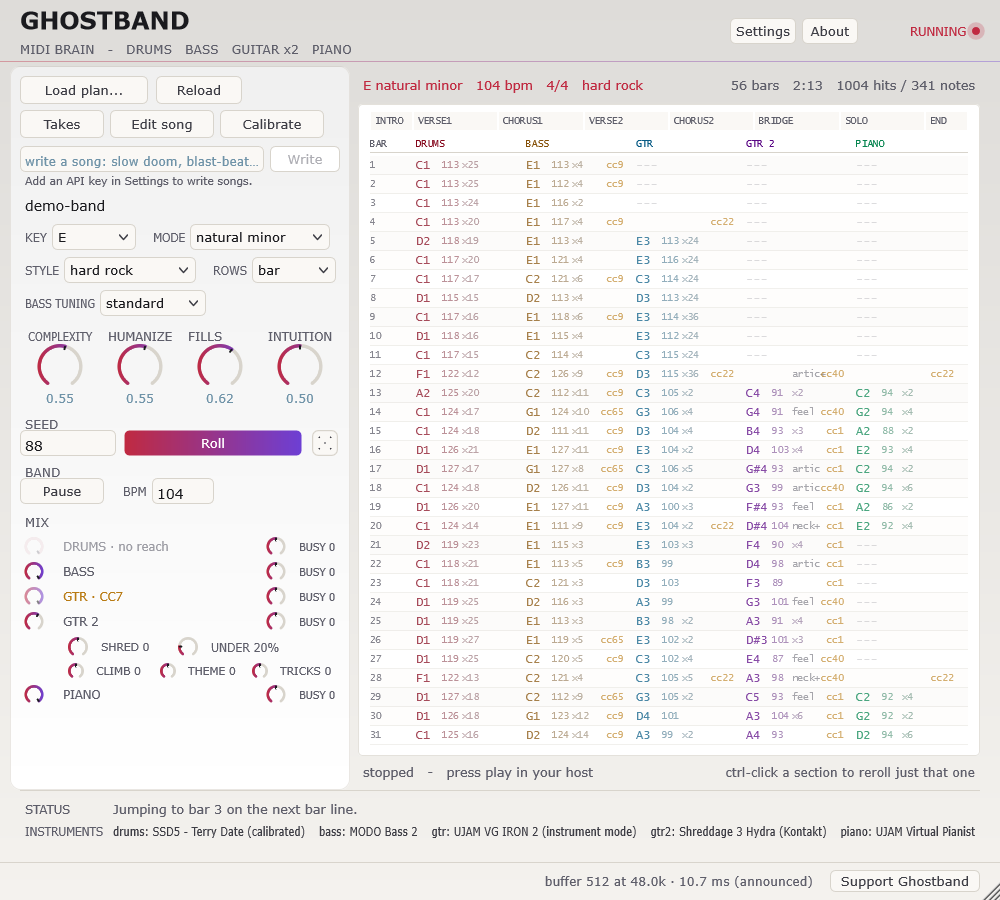
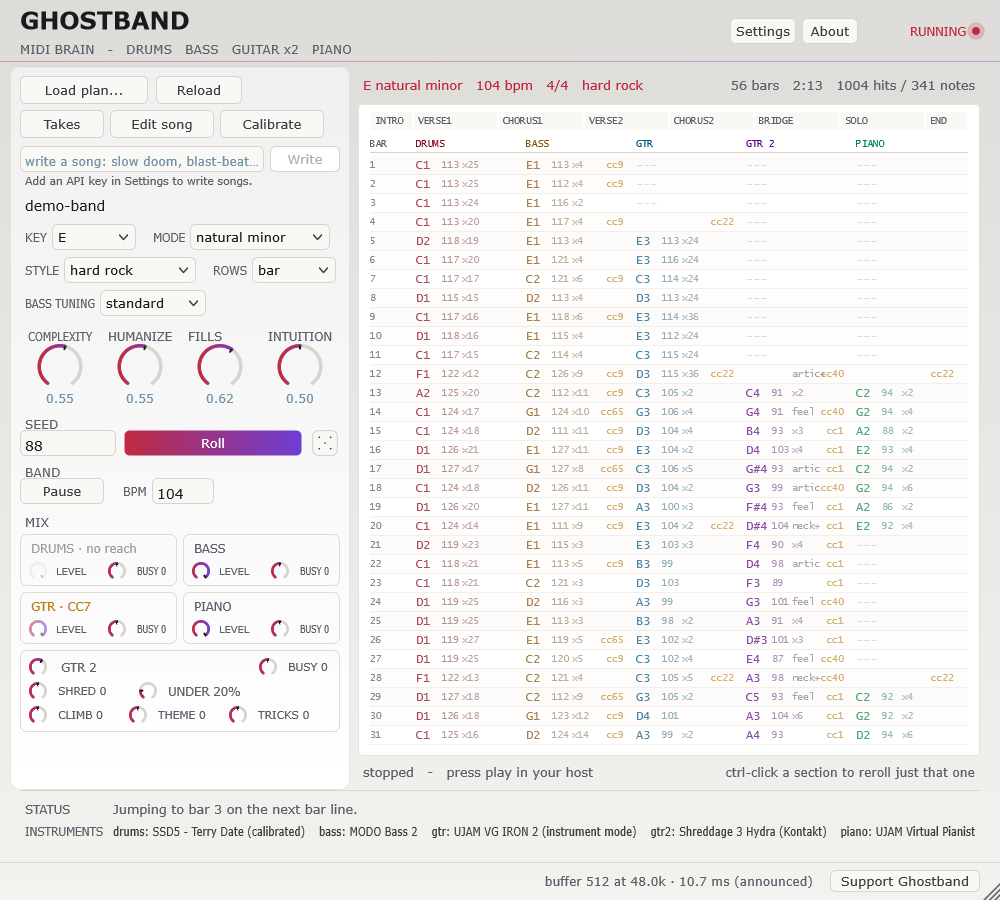
Mix: each instrument in its own box (layout B), window 850 tall; screenshots regenerated
Small boxes keep the greyed reason on its own line (never hide the reason).

Changed region(s): [[0.0, 0.5911, 0.341, 0.8089]]

diff --git a/plugin/PluginEditor.cpp b/plugin/PluginEditor.cpp
@@ -2857,7 +2857,7 @@ GhostbandEditor::GhostbandEditor (GhostbandProcessor& p)
     aboutButton.onClick    = [this] { screen = Screen::About;    updateModeVisibility(); };
     backButton.onClick     = [this] { screen = Screen::Song;     updateModeVisibility(); };
 
-    resetSizeButton.onClick = [this] { setSize (1180, 820); };
+    resetSizeButton.onClick = [this] { setSize (1180, 850); };
 
     styleCombo (themeBox);
     addChildComponent (themeBox);
@@ -3148,13 +3148,13 @@ GhostbandEditor::GhostbandEditor (GhostbandProcessor& p)
     // which is about 900. Settings wants a 460 column of channels beside a 496
     // column of the learn form, which is 1020 - and a minimum that fits five
     // screens and breaks the sixth is not a minimum.
-    setResizeLimits (1020, 820, 2400, 2200);
+    setResizeLimits (1020, 850, 2400, 2200);
 
     // Restore the remembered size, then start recording changes to it. The
     // order matters: recording before this point captures the zero-sized
     // editor and loses what was remembered.
     setSize (juce::jmax (1020, processor.editorWidth.load()),
-             juce::jmax (820, processor.editorHeight.load()));
+             juce::jmax (850, processor.editorHeight.load()));
     sizeInitialised = true;
 
     // ---- tooltips ----
@@ -6162,6 +6162,22 @@ void GhostbandEditor::paint (juce::Graphics& g)
     if (screen == Screen::Song && ! trackerEditStrip.isEmpty())
         ghost::drawSurface (g, trackerEditStrip.toFloat(), 8.0f);
 
+    // Each instrument's box in the mix (2026-10-03).
+    if (screen == Screen::Song)
+    {
+        g.setColour (ghost::line.brighter (0.25f));
+        for (const auto& b : mixBoxes)
+            if (! b.isEmpty())
+                g.drawRoundedRectangle (b.toFloat().reduced (0.5f), 6.0f, 1.0f);
+
+        // What the left knob of a small box is, beside it.
+        g.setColour (ghost::dim);
+        g.setFont (juce::FontOptions (12.0f));
+        for (const auto& c : levelCaptions)
+            if (! c.isEmpty())
+                g.drawText ("LEVEL", c, juce::Justification::centredLeft, false);
+    }
+
     // The footer's own separator. Without it the two lines down there read as
     // more page rather than as a distinct block - which was the complaint: no
     // obvious separation other than the colour.
@@ -6948,9 +6964,25 @@ void GhostbandEditor::layOutSongScreen (juce::Rectangle<int> r)
     // side each one gets a whole line, and "PIANO - not in song" fits as
     // written.
     mixLabel.setBounds (rail.removeFromTop (16));
-    // (The gap above was 16 and each row 28 until the solo knobs' line under
-    // GTR 2 needed 22 pixels at the default window size - 2026-10-03.)
     rail.removeFromTop (4);
+
+    // EACH INSTRUMENT IN ITS OWN BOX (2026-10-03, the owner: "the spacing is
+    // too crowded... put each instrument and its accompanying adjustment dials
+    // inside a box-like outline". Layout B of three sketches): drums and bass,
+    // guitar and piano two to a row, one line each; guitar 2 across the whole
+    // rail, because it carries seven controls. The outlines are painted in
+    // paint(), behind the knobs.
+    {
+        const int gap = 6, smallH = 52, bigH = 82;
+        auto top = rail.removeFromTop (smallH);
+        rail.removeFromTop (gap);
+        auto mid = rail.removeFromTop (smallH);
+        rail.removeFromTop (gap);
+        const int half = (top.getWidth() - gap) / 2;
+        mixBoxes[0] = top.removeFromLeft (half);  top.removeFromLeft (gap);  mixBoxes[1] = top;   // drums, bass
+        mixBoxes[2] = mid.removeFromLeft (half);  mid.removeFromLeft (gap);  mixBoxes[4] = mid;   // guitar, piano
+        mixBoxes[3] = rail.removeFromTop (bigH);                                                   // guitar 2
+    }
 
     juce::Slider* levelSliders[5] = { &levelDrums, &levelBass, &levelGuitar,
                                       &levelGuitar2, &levelPiano };
@@ -7022,6 +7054,10 @@ void GhostbandEditor::layOutSongScreen (juce::Rectangle<int> r)
         levelSliders[i]->setEnabled (reachable);
         levelSliders[i]->setAlpha (alpha);
         levelLabels[i]->setColour (juce::Label::textColourId, colour);
+        // The name and, when there is one, the reason it is greyed - "never
+        // hide a control; grey it out with the reason". The small boxes give it
+        // a line of its own; guitar 2's full-width box has it beside the knob.
+        const bool wide = (i == 3);
         levelLabels[i]->setText (juce::String (kLevelNames[i]) + suffix,
                                  juce::dontSendNotification);
 
@@ -7044,7 +7080,10 @@ void GhostbandEditor::layOutSongScreen (juce::Rectangle<int> r)
                         : juce::String (kLevelNames[i])
                               + " level, sent to the instrument's own volume control.");
 
-        auto row = rail.removeFromTop (25);
+        auto inner = mixBoxes[static_cast<size_t> (i)].reduced (6, wide ? 5 : 3);
+        if (! wide)
+            levelLabels[i]->setBounds (inner.removeFromTop (22));
+        auto row = inner.removeFromTop (24);
 
         // BUSY, at the right of every row. Greyed with the reason, never hidden:
         // a part not in the song, or one whose instrument plays its own phrases.
@@ -7063,9 +7102,9 @@ void GhostbandEditor::layOutSongScreen (juce::Rectangle<int> r)
                          : "BUSY: how much " + juce::String (kLevelNames[i]).toLowerCase()
                            + " plays, on top of COMPLEXITY. Middle is the song exactly as it is; up is busier, "
                              "down is sparer. Double-click for the middle.");
-            auto busyArea = row.removeFromRight (78);
-            busyKnob[i].setBounds (busyArea.removeFromLeft (28).reduced (1));
-            busyArea.removeFromLeft (4);
+            auto busyArea = row.removeFromRight (wide ? 78 : 66);
+            busyKnob[i].setBounds (busyArea.removeFromLeft (24).reduced (1));
+            busyArea.removeFromLeft (3);
             busyLabel[i].setBounds (busyArea);
         }
 
@@ -7084,10 +7123,8 @@ void GhostbandEditor::layOutSongScreen (juce::Rectangle<int> r)
                             "Double-click for the default."
                           : "Nothing can set guitar 2's level (see the GTR 2 knob), so nothing can "
                             "lower it for fills either.");
-            // A second line under GTR 2 for its two lead controls - there is
-            // no room for three knobs and a name on one.
-            auto line2 = rail.removeFromTop (26);
-            line2.removeFromLeft (44);
+            // A second line in GTR 2's box for its two lead controls.
+            auto line2 = inner.removeFromTop (24);
             auto shredArea = line2.removeFromLeft (110);
             shredKnob.setVisible (screen == Screen::Song);
             shredLabel.setVisible (screen == Screen::Song);
@@ -7098,20 +7135,19 @@ void GhostbandEditor::layOutSongScreen (juce::Rectangle<int> r)
                                            "Middle follows COMPLEXITY and INTUITION as it always has. "
                                            "Double-click for the middle."
                                          : "Guitar 2 is not in this song.");
-            shredKnob.setBounds (shredArea.removeFromLeft (28).reduced (1));
-            shredArea.removeFromLeft (4);
+            shredKnob.setBounds (shredArea.removeFromLeft (24).reduced (1));
+            shredArea.removeFromLeft (3);
             shredLabel.setBounds (shredArea);
 
             auto fillsArea = line2.removeFromLeft (110);
-            levelGuitar2Fills.setBounds (fillsArea.removeFromLeft (28).reduced (1));
-            fillsArea.removeFromLeft (4);
+            levelGuitar2Fills.setBounds (fillsArea.removeFromLeft (24).reduced (1));
+            fillsArea.removeFromLeft (3);
             levelGuitar2FillsLabel.setBounds (fillsArea);
 
             // THE SOLO KNOBS, a third line (2026-10-03, layout A): what the
             // solos do, beside the other lead controls. Greyed with the reason
             // when guitar 2 is not in the song, never hidden.
-            auto line3 = rail.removeFromTop (22);
-            line3.removeFromLeft (44);
+            auto line3 = inner.removeFromTop (24);
             struct SoloKnob { juce::Slider& k; juce::Label& l; const char* tip; };
             const SoloKnob soloKnobs[] = {
                 { climbKnob,  climbLabel,  "CLIMB: how far up the neck guitar 2's solos rise to their peak - down stays "
@@ -7124,7 +7160,7 @@ void GhostbandEditor::layOutSongScreen (juce::Rectangle<int> r)
                                            "solos as approved. Double-click for the middle." } };
             for (const SoloKnob& sk : soloKnobs)
             {
-                auto area = line3.removeFromLeft (92);
+                auto area = line3.removeFromLeft (100);
                 sk.k.setVisible (screen == Screen::Song);
                 sk.l.setVisible (screen == Screen::Song);
                 sk.k.setEnabled (inSong);
@@ -7137,9 +7173,12 @@ void GhostbandEditor::layOutSongScreen (juce::Rectangle<int> r)
             }
         }
 
-        levelSliders[i]->setBounds (row.removeFromLeft (28).reduced (1));
-        row.removeFromLeft (10);
-        levelLabels[i]->setBounds (row);
+        levelSliders[i]->setBounds (row.removeFromLeft (24).reduced (1));
+        row.removeFromLeft (6);
+        if (wide)
+            levelLabels[i]->setBounds (row);
+        else
+            levelCaptions[i] = row.removeFromLeft (44);   // "LEVEL", painted
     }
 
     // ---- the grid, and the two lines that frame it ----

diff --git a/test/PluginHarness.cpp b/test/PluginHarness.cpp
@@ -87,7 +87,7 @@ double contrastRatio (juce::Colour a, juce::Colour b)
 // Settings is what sets it: a 460 column of channels beside a 496 column of the
 // learn form. The song screen alone would be happy at 900.
 constexpr int kMinW = 1020;
-constexpr int kMinH = 820;
+constexpr int kMinH = 850;
 
 // Same idea as the local `describe` lambdas, at file scope so checks outside
 // those blocks can name a component too.
@@ -656,7 +656,7 @@ static void perfReport (const juce::String& planPath, int seconds)
 
     t0 = now();
     auto* ed = proc->createEditorIfNeeded();
-    ed->setSize (1180, 820);
+    ed->setSize (1180, 850);
     const double tEditor = now() - t0;
 
     t0 = now();
@@ -9091,11 +9091,11 @@ int main (int argc, char** argv)
                 // Sized per screen rather than uniformly: a settings page with a
                 // scrolling control list needs the height, and the song screen
                 // at that height is mostly empty floor.
-                shots.push_back ({ 0, 1180,  820, "-docs" });   // song
+                shots.push_back ({ 0, 1180,  850, "-docs" });   // song
                 shots.push_back ({ 1, 1180,  980, "-docs" });   // calibrate
                 shots.push_back ({ 2, 1180,  980, "-docs" });   // edit
                 shots.push_back ({ 3, 1180,  900, "-docs" });   // settings
-                shots.push_back ({ 4, 1180,  820, "-docs" });   // about
+                shots.push_back ({ 4, 1180,  850, "-docs" });   // about
                 shots.push_back ({ 5, 1180,  900, "-docs" });   // takes
 
                 // About at the size it is actually used at. It is the one
@@ -9109,10 +9109,10 @@ int main (int argc, char** argv)
                 // reasoned about. A 150 ms cubic ease-out is already down to
                 // 12% opacity at its halfway point, which is a flicker rather
                 // than a transition - and that is not visible in any still.
-                shots.push_back ({ 0, 1180, 820, "-glow" });
+                shots.push_back ({ 0, 1180, 850, "-glow" });
 
                 for (int f = 0; f < 4; ++f)
-                    shots.push_back ({ 0, 1180, 820, f == 0 ? "-fade-100"
+                    shots.push_back ({ 0, 1180, 850, f == 0 ? "-fade-100"
                                                    : f == 1 ? "-fade-70"
                                                    : f == 2 ? "-fade-40" : "-fade-15" });
 
@@ -9122,7 +9122,7 @@ int main (int argc, char** argv)
                 // The click happens in the render loop below, not here: every
                 // shot switches screens, and leaving one closes the strip.
                 if (gbEd != nullptr && proc.getBarTicks() > 0)
-                    shots.push_back ({ 0, 1180, 820, "-editing" });
+                    shots.push_back ({ 0, 1180, 850, "-editing" });
 
                 for (const Shot& shot : shots)
                 {

diff --git a/plugin/PluginProcessor.cpp b/plugin/PluginProcessor.cpp
@@ -4746,7 +4746,7 @@ void GhostbandProcessor::setStateInformation (const void* data, int sizeInBytes)
     // header, so a session saved before this opens at the new size rather than
     // at a cramped old one.
     editorWidth.store  (juce::jlimit (700, 2400, xml->getIntAttribute ("editorW", 800)));
-    editorHeight.store (juce::jlimit (820, 2200, xml->getIntAttribute ("editorH", 960)));
+    editorHeight.store (juce::jlimit (850, 2200, xml->getIntAttribute ("editorH", 960)));
     usePlanTempo.store (xml->getBoolAttribute ("planTempo", true));
     trackerZoom.store (juce::jlimit (0, numTrackerZooms - 1,
                                      xml->getIntAttribute ("trackerZoom", 0)));

diff --git a/plugin/PluginEditor.h b/plugin/PluginEditor.h
@@ -1001,6 +1001,8 @@ private:
     // is what made the window read as a form rather than as an instrument. A
     // ground with panels ON it is most of what separates the two.
     juce::Rectangle<int> controlsPanel;
+    juce::Rectangle<int> mixBoxes[5];   // drums, bass, guitar, guitar 2, piano - outlined in paint()
+    juce::Rectangle<int> levelCaptions[5];   // "LEVEL" beside the small boxes' knobs, painted
 
     // The quick edit strip's own surface, painted behind it so it reads as one
     // thing attached to the grid rather than four loose controls.

diff --git a/plugin/PluginProcessor.h b/plugin/PluginProcessor.h
@@ -613,7 +613,7 @@ public:
     // 31% of the width and 67% of the height, and the song screen's controls
     // stopped 45% short of its right edge. See layOutSongScreen.
     std::atomic<int> editorWidth  { 1180 };
-    std::atomic<int> editorHeight { 820 };
+    std::atomic<int> editorHeight { 850 };
 
     // How much music one tracker row covers: 0 bar, 1 beat, 2 eighth, 3
     // sixteenth. Which one is right depends entirely on what you are looking

diff --git a/CHANGELOG.md b/CHANGELOG.md
@@ -7,6 +7,16 @@ Downloads are on the [releases page](https://github.com/mourninggrace/Ghostband/
 
 ## [Unreleased]
 
+### Changed
+- **Each instrument's mix controls in their own box** (the owner: "too
+  crowded"; layout B of three sketches). Drums and bass, guitar and piano two
+  to a row - the name and why a knob is greyed on one line, LEVEL and BUSY on
+  the next - and guitar 2 across the rail with all seven of its controls. The
+  window's default and minimum height went from 820 to 850 to give them room.
+- **Double-click resets every knob and slider.** The trims and levels already
+  did; now the four feel dials go back to the song's own values and a
+  section's intensity to what it had when picked. A check walks every slider.
+
 ### Added
 - **The solo knobs: CLIMB, THEME, TRICKS** (layout A, chosen by the owner from
   three sketches): a third line under GTR 2. CLIMB - how far up the neck a solo
